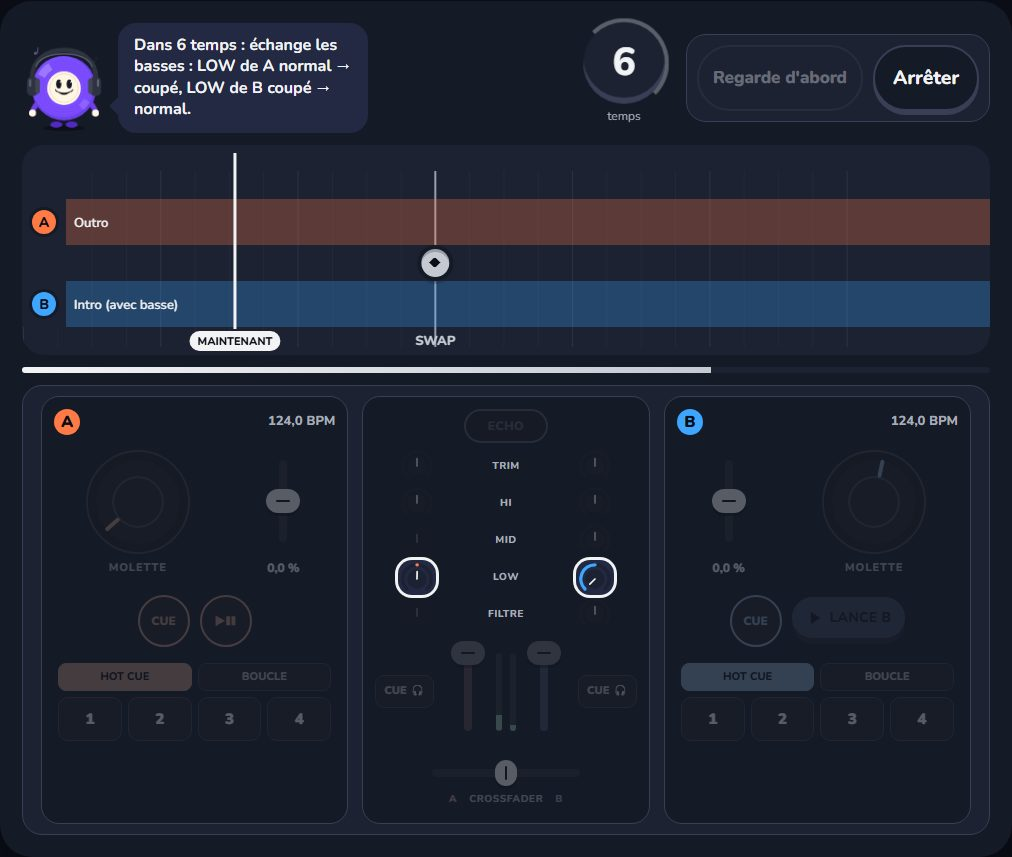
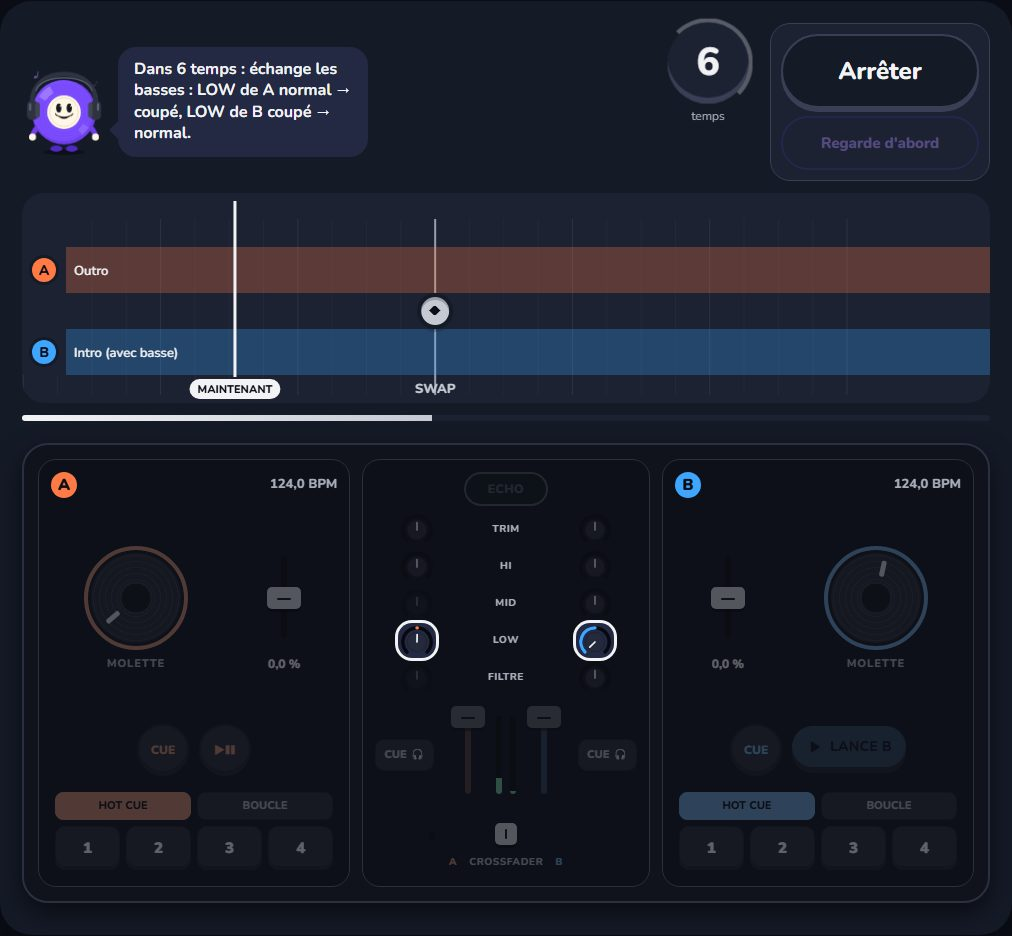
Images de la présentation refaites (nouvelle table, nouveaux écrans)

diff --git a/tests/images-presentation.js b/tests/images-presentation.js
@@ -16,7 +16,7 @@ const fausseTable = () => { const inputs = new Map([['1', { id: '1', name: 'DDJ-
   if (!(await fetch(BASE + '/index.html').then(r => r.ok).catch(() => false))) { srv = spawn(process.execPath, [path.join(__dirname, 'serveur.js')], { stdio: 'ignore' }); await new Promise(r => setTimeout(r, 800)); }
   const b = await chromium.launch({ args: ['--autoplay-policy=no-user-gesture-required'] });
   const page = async (hash, stockage = VENU) => { const ctx = await b.newContext({ viewport: { width: 1280, height: 800 }, deviceScaleFactor: 1 }), p = await ctx.newPage();
-    await p.addInitScript(d => { try { for (const [k, v] of Object.entries(d)) localStorage.setItem(k, v); } catch (e) {} }, stockage); await p.addInitScript(fausseTable);
+    await p.addInitScript(d => { try { for (const [k, v] of Object.entries(d)) localStorage.setItem(k, v); } catch (e) {} }, stockage); await p.addInitScript(fausseTable); await p.addInitScript(() => { window.DJINGOOD_LIBRE = true; });   // lot 64 : niveaux tous ouverts pour les photos
     await p.goto(BASE + '/index.html#' + hash); await p.evaluate(() => document.fonts.ready); await p.waitForTimeout(600); return p; };
   // haut : hauteur maximale de l'image, en pixels (le reste de l'élément est coupé)
   const shot = async (p, nom, sel, haut = 0) => { await p.evaluate(() => { const c = document.getElementById('confetti'); if (c) c.style.visibility = 'hidden'; });
